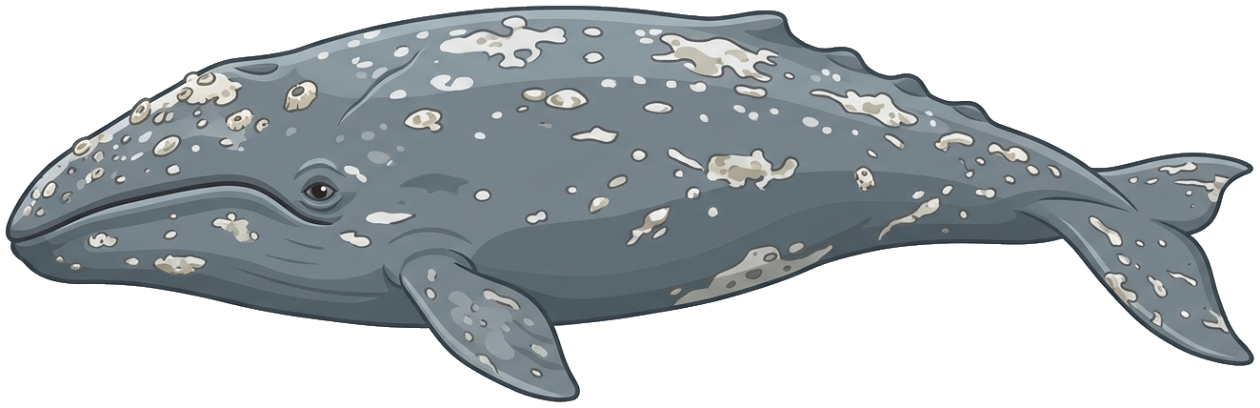
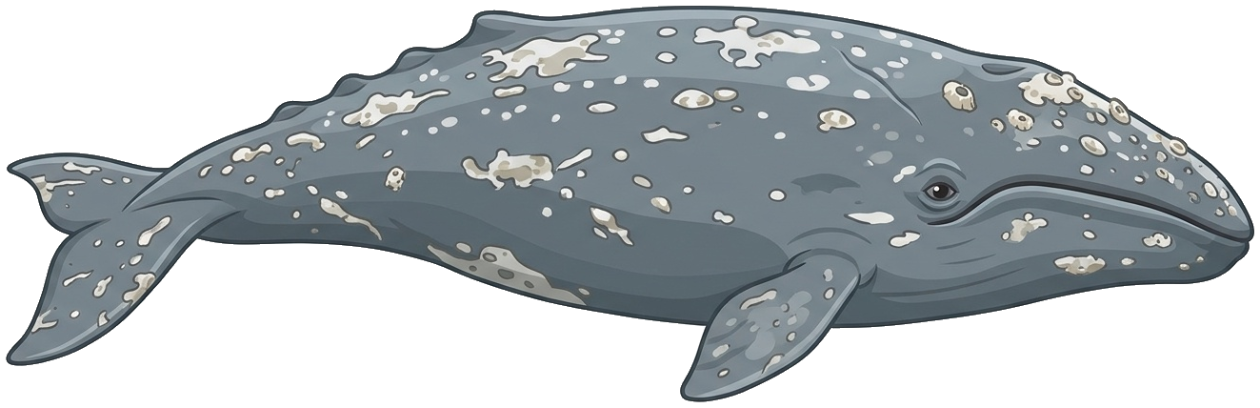
refactor: prune non-fish mammals from prey database
Remove 6 non-fish mammal species (manatees, dugongs, walruses, sea lions) from the prey pool to refine biological consistency, updating related documentation and game configuration (140 to 134 entities).

diff --git a/src/game/rules.test.ts b/src/game/rules.test.ts
@@ -63,9 +63,9 @@ test('I18N dictionary has complete and matching keys in both zh and en', () => {
   );
 });
 
-test('GAME_CONFIG has 15 organs across 3 factions and 5 slots, plus 141 target prey & hazard entries (140 new species + cyber_mine)', () => {
+test('GAME_CONFIG has 15 organs across 3 factions and 5 slots, plus 135 target prey & hazard entries (134 active marine species + cyber_mine)', () => {
   assert.equal(GAME_CONFIG.organs.length, 15);
-  assert.equal(GAME_CONFIG.preyTiers.length, 141);
+  assert.equal(GAME_CONFIG.preyTiers.length, 135);
 
   const factions = new Set(GAME_CONFIG.organs.map((o) => o.faction));
   const slots = new Set(GAME_CONFIG.organs.map((o) => o.slot));
@@ -3243,14 +3243,20 @@ test('Undulating Mountain Range Seabed (Zero Flat or Diagonal Straight Lines), U
   }
 });
 
-test('140 New Marine Prey Species + Cyber Mine: Complete Asset Presence, Depth Stratification & Body-Size Deep Trend', () => {
-  assert.equal(PREY_140_RECORDS.length, 140);
-  assert.equal(GAME_CONFIG.preyTiers.length, 141);
+test('134 Active Marine Prey Species + Cyber Mine: Non-Fish Mammal Exclusion, Asset Presence, Depth Stratification & Body-Size Deep Trend', () => {
+  assert.equal(PREY_140_RECORDS.length, 134);
+  assert.equal(GAME_CONFIG.preyTiers.length, 135);
 
   const byId = Object.fromEntries(GAME_CONFIG.preyTiers.map((p) => [p.id, p]));
   assert.ok(byId['cyber_mine'], 'cyber_mine must remain retained');
+  assert.ok(byId['PREY-203'], 'PREY-203 Gray Whale must remain active');
 
-  // 1. Verify every PREY-001..PREY-210 has a valid transparent @3x.png file on disk
+  // Verify pinnipeds/sirenians (manatee, dugong, walrus, sea lions) are excluded from spawning
+  for (const excludedId of ['PREY-122', 'PREY-123', 'PREY-124', 'PREY-125', 'PREY-126', 'PREY-209']) {
+    assert.equal(byId[excludedId], undefined, `${excludedId} must be excluded from active preyTiers`);
+  }
+
+  // 1. Verify every active prey record has a valid transparent @3x.png file on disk
   for (const rec of PREY_140_RECORDS) {
     const cfg = byId[rec.id];
     assert.ok(cfg, `Missing PreyTierConfig for ${rec.id}`);

diff --git a/src/game/preyDatabase140.ts b/src/game/preyDatabase140.ts
@@ -149,11 +149,6 @@ const RAW_PREY_140_TUPLES: RawPreyTuple[] = [
   ['PREY-119', '大型海鲹', 'Giant Trevally', '大型海洋生物', 0, 200, 100, 170, 'L'],
   ['PREY-120', '宽吻海豚', 'Bottlenose Dolphin', '大型海洋生物', 0, 300, 250, 400, 'XL'],
   ['PREY-121', '长吻海豚', 'Spinner Dolphin', '大型海洋生物', 0, 300, 200, 300, 'L'],
-  ['PREY-122', '海牛', 'West Indian Manatee', '大型海洋生物', 0, 30, 250, 400, 'XL'],
-  ['PREY-123', '儒艮', 'Dugong', '大型海洋生物', 0, 30, 250, 300, 'XL'],
-  ['PREY-124', '海象', 'Walrus', '大型海洋生物', 0, 100, 300, 400, 'XXL'],
-  ['PREY-125', '北海狮', 'Steller Sea Lion', '大型海洋生物', 0, 300, 250, 350, 'XL'],
-  ['PREY-126', '南美海狮', 'South American Sea Lion', '大型海洋生物', 0, 300, 200, 300, 'L'],
   ['PREY-127', '大西洋鲟', 'Atlantic Sturgeon', '大型海洋生物', 0, 200, 150, 300, 'XL'],
   ['PREY-128', '白鲟', 'Beluga Sturgeon', '大型海洋生物', 0, 100, 200, 400, 'XXL'],
   ['PREY-129', '巨型梭鱼', 'Great Barracuda', '大型海洋生物', 0, 100, 100, 200, 'XL'],
@@ -166,7 +161,6 @@ const RAW_PREY_140_TUPLES: RawPreyTuple[] = [
   ['PREY-206', '虎鲸', 'Orca', '巨型海洋生物', 0, 300, 500, 800, '巨型'],
   ['PREY-207', '伪虎鲸', 'False Killer Whale', '巨型海洋生物', 0, 1000, 400, 600, 'XXL'],
   ['PREY-208', '领航鲸', 'Pilot Whale', '巨型海洋生物', 0, 1000, 400, 600, 'XXL'],
-  ['PREY-209', '北极海象', 'Arctic Walrus', '巨型海洋生物', 0, 100, 300, 400, 'XXL'],
   ['PREY-210', '蓝鲸幼体/亚成体', 'Juvenile Blue Whale', '巨型海洋生物', 0, 200, 800, 1500, '巨型'],
 ];
 
@@ -253,12 +247,6 @@ export const PREY_140_RIGID_IDS = new Set<string>([
   'PREY-114',
   'PREY-115',
   'PREY-116',
-  'PREY-122',
-  'PREY-123',
-  'PREY-124',
-  'PREY-125',
-  'PREY-126',
-  'PREY-209',
 ]);
 
 export const PREY_140_PUFFER_IDS = PUFFER_LIKE_IDS;

diff --git a/scripts/build-ios-native.ts b/scripts/build-ios-native.ts
@@ -3,6 +3,7 @@ import path from 'node:path';
 import child_process from 'node:child_process';
 import { fileURLToPath } from 'node:url';
 import { GAME_CONFIG } from '../src/game/config';
+import { PREY_140_RECORD_BY_ID } from '../src/game/preyDatabase140';
 import { SHARK_EVOLUTION_FORMS, LINEAGE_META } from '../src/game/sharkEvolutionConfig';
 import {
   SHARK_CELL_BOUNDS,
@@ -6236,8 +6237,7 @@ public final class OceanGameScene: SKScene {
         "PREY-099", "PREY-103"
     ]
     private static let prey140RigidIds: Set<String> = [
-        "PREY-114", "PREY-115", "PREY-116",
-        "PREY-122", "PREY-123", "PREY-124", "PREY-125", "PREY-126", "PREY-209"
+        "PREY-114", "PREY-115", "PREY-116"
     ]
 
     private func classifyPreySwimGait(_ p: PreyTierConfig) -> PreySwimGait {
@@ -11977,6 +11977,8 @@ function main() {
   if (fs.existsSync(srcPrey140Dir)) {
     for (const file of fs.readdirSync(srcPrey140Dir)) {
       if (file.endsWith('@3x.png')) {
+        const preyId = file.replace(/@3x\.png$/, '');
+        if (!PREY_140_RECORD_BY_ID[preyId]) continue;
         fs.copyFileSync(
           path.join(srcPrey140Dir, file),
           path.join(assetsDst, file)

diff --git a/ios-native/HungrySharkEvolution/Rendering/OceanGameScene.swift b/ios-native/HungrySharkEvolution/Rendering/OceanGameScene.swift
@@ -1463,8 +1463,7 @@ public final class OceanGameScene: SKScene {
         "PREY-099", "PREY-103"
     ]
     private static let prey140RigidIds: Set<String> = [
-        "PREY-114", "PREY-115", "PREY-116",
-        "PREY-122", "PREY-123", "PREY-124", "PREY-125", "PREY-126", "PREY-209"
+        "PREY-114", "PREY-115", "PREY-116"
     ]
 
     private func classifyPreySwimGait(_ p: PreyTierConfig) -> PreySwimGait {

diff --git a/docs/01-ARCHITECTURE.md b/docs/01-ARCHITECTURE.md
@@ -1,7 +1,7 @@
 # 01. 项目系统架构与模块说明书 (System Architecture)
 
 > **文档状态**：生效中（Active）
-> **最后更新**：2026-11-15
+> **最后更新**：2026-11-16
 > **关联约束**：修改任何模块划分、文件职责、主循环状态或存档 Schema 时，必须同步更新本文档（参见 [`docs/00-AI_CONSTRAINTS.md`](./00-AI_CONSTRAINTS.md)）。
 
 ---
@@ -63,13 +63,13 @@
     │   ├── UiAtlasIcon.tsx                    # UI 图集渲染组件（UiAtlasIcon / UiAvatarDataBar / UiBannerButton / UiSettingModalFrame / UiSettingSharkCard / UiSettingButton）
     │   └── SharkEvolutionAtlasModal.tsx       # 48 阶鲨鱼图谱弹窗（支持血统筛选、本体升级与新形态解锁）
     └── game/
-        ├── preyDatabase140.ts                 # 140 种新海洋生物元数据、双语词典、游泳步态分类集合与真实水深+体型深海映射生成器（+ cyber_mine 共 141 项）
-        ├── config.ts                          # 静态世界常量、3 大深度带、接入 buildPrey140TiersWithMines() 的 141 项生态配置
+        ├── preyDatabase140.ts                 # 134 种现役海洋生物元数据（已剔除海牛/儒艮/海象/海狮等 6 种非鱼形态哺乳类）、双语词典、游泳步态分类集合与真实水深+体型深海映射生成器（+ cyber_mine 共 135 项）
+        ├── config.ts                          # 静态世界常量、3 大深度带、接入 buildPrey140TiersWithMines() 的 135 项生态配置
         ├── sharkEvolutionConfig.ts            # 48 阶鲨鱼进化矩阵、四重血统、三重解锁门禁、跨局存档读写
         ├── rules.ts                           # 纯函数核心规则（Lv/T 属性合成、猎物相对体型缩放、碰撞判定）
         ├── rules.test.ts                      # 核心纯函数单元测试套件（41 项核心断言）
-        ├── spriteSheetManager.ts              # 8×6 鲨鱼精灵图 + 140 种猎物 @3x 独立 PNG 按需/分批裁剪缓存 + UI 图集加载与离屏缓存
-        ├── canvasRenderer.ts                  # 鲨鱼多段脊柱游动渲染、140 种猎物五步态骨骼渲染、状态指示环与定制图标头标
+        ├── spriteSheetManager.ts              # 8×6 鲨鱼精灵图 + 猎物 @3x 独立 PNG 按需/分批裁剪缓存 + UI 图集加载与离屏缓存
+        ├── canvasRenderer.ts                  # 鲨鱼多段脊柱游动渲染、134 种现役猎物五步态骨骼渲染、状态指示环与定制图标头标
         ├── parallaxBackground.ts              # 13 张 AI 分层美术背景离屏 BFS 抠图/余弦无缝拼接与五层真视差海洋环境引擎
         ├── worldGenerationSystem.ts           # 八模块程序化海底世界生成系统（WorldGenerator / BiomeManager / TerrainGenerator / StructureGenerator / EcologyGenerator / ChunkManager / DecorationRenderer / WorldStateManager）
         ├── infiniteWorldManager.ts            # 无限水平环形世界与动态深海垂直下潜边界控制器
@@ -150,6 +150,7 @@
 
 | 日期 | 变更摘要 | 关联代码文件 |
 | :--- | :--- | :--- |
+| 2026-11-16 | **剔除海狮/海象/海牛/儒艮等非鱼形态哺乳类并修正 `PREY-203` 灰鲸朝向与游动方向**：① 从 `RAW_PREY_140_TUPLES`、`PREY_140_RIGID_IDS` 及 iOS 打包资源过滤中移除 `PREY-122` 海牛、`PREY-123` 儒艮、`PREY-124` 海象、`PREY-125` 北海狮、`PREY-126` 南美海狮与 `PREY-209` 北极海象（保留海龟与鲸豚，现役生态配置调整为 **134 种海洋生物 + `cyber_mine` = 135 项**）；② 水平镜像 `src/assets/images/prey_203_graywhale_1794661665632.jpg` 并重切 `PREY-203.png` / `PREY-203@3x.png`，使灰鲸严格面朝右侧、尾鳍朝左，与 Web/iOS 脊柱正弦摆尾方向（`u=0` 头部稳态、`u=1` 尾部推进）完全一致 | `src/game/preyDatabase140.ts`, `src/assets/images/prey_203_graywhale_1794661665632.jpg`, `public/assets/prey_140/PREY-203@3x.png`, `scripts/build-ios-native.ts`, `src/game/rules.test.ts` |
 | 2026-11-15 | **新增 `src/game/preyDatabase140.ts` 并将双端生态体系切换为 140 种新猎物（`PREY-001..210`）+ `cyber_mine`**：① 建立 `PREY_140_RECORDS` 与 `buildPrey140TiersWithMines()` 替换 `config.ts` 旧 33 项配置并同步 `i18n.ts`；② `spriteSheetManager.ts` 增加 `prey140Frames` 分批/按需透明 `@3x.png` 加载器（限宽 420px + 紧凑非透明裁切）；③ `canvasRenderer.ts` 与 `ecosystemSpawner.ts` / `App.tsx` 全面切换至 140 种生物步态（新增 `SHARK_APEX`）、`0~20000m` 五段阶位权重与 `<=515m` 浅海伴游深度钳制；④ 同步 `scripts/build-ios-native.ts` 并通过 41/41 单元测试 | `src/game/preyDatabase140.ts`, `src/game/config.ts`, `src/game/i18n.ts`, `src/game/spriteSheetManager.ts`, `src/game/canvasRenderer.ts`, `src/game/ecosystemSpawner.ts`, `src/App.tsx`, `scripts/build-ios-native.ts`, `src/game/rules.test.ts` |
 | 2026-11-14 | **消除沿洞口向下斜线水平移动时的速度叠加（`evalTerraceSeabedContinuousRaw` / `resolveSeabedKineticStep` / `App.tsx` / `scripts/build-ios-native.ts`）**：① **补齐洞口下弯斜壁解析导数 `dWallDropTDx`**：在 `evalTerraceSeabedContinuousRaw` 中将洞口两侧下弯过渡 `wallDropT` 升级为 $C^2$ 五次平滑曲线（`wallRampSpan = 165m`）并精确计算解析导数 `(targetDeepArchY - lipArchY) * dWallDropTDx` 计入 `bottomSlope`（限幅 `[-2.6, 2.6]`），使水平移动撞击洞口向下斜壁时的切向缩放系数 `bTangentScale = 1 / sqrt(1 + bSlope^2)` 与真实斜率严格一致；② **二分二维弧长守恒与零垂直速度注入**：在 `resolveSeabedKineticStep` 中对洞顶斜壁与表层斜坡执行 6 次二分弧长守恒收缩（确保 `effectiveSpeed2D <= intendedSpeed`），并移除向下一帧注入 `(finalY - prevEngineY) / dt` 垂直速度的逻辑，同时在 `src/App.tsx` 与 iOS `GameRules.swift` 中钳制二维合速度模长 $\sqrt{v_x^2 + v_y^2} \le \text{targetSpeed}$，彻底根治跨帧水平速度 `vx` 与斜坡残留 `vy` 勾股叠加超速问题 | `src/game/worldGenerationSystem.ts`, `src/App.tsx`, `scripts/build-ios-native.ts`, `src/game/rules.test.ts`, `docs/01-ARCHITECTURE.md`, `docs/02-DESIGN_SPEC.md`, `docs/05-CROSS_PLATFORM_MOBILE_PORTING_GUIDE.md` |
 | 2026-11-14 | **扩展为全深度 9 级随深度递增的非均匀间距连续阶梯海床架构（`SEABED_TERRACE_TIERS` / `getSeabedTerraceAt`）+ 层间交错弧形下潜洞口 + 全层级双向防穿透碰撞与生态附着（覆盖 `414m` 浅海至 `16900m` 冥渊海沟）**：① **9 级随深度递增的非均匀间距连续海床矩阵**：按浅海连续海床的同等实现范式，从阳光浅海一路向深渊铺设 9 层间距随深度递增的阶梯海床——`Tier 0` 阳光浅海珊瑚层（`~414m`）$\xrightarrow{+806\text{m}}$ `Tier 1` 上暮光层礁石阶地（`~1220m`）$\xrightarrow{+1000\text{m}}$ `Tier 2` 中暮光层海谷台地（`~2220m`）$\xrightarrow{+1240\text{m}}$ `Tier 3` 深暮光半深海峡谷（`~3460m`）$\xrightarrow{+1580\text{m}}$ `Tier 4` 半深海裂谷前哨阶地（`~5040m`）$\xrightarrow{+2020\text{m}}$ `Tier 5` 深海玄武岩断崖（`~7060m`）$\xrightarrow{+2580\text{m}}$ `Tier 6` 深渊幽冥海盆阶地（`~9640m`）$\xrightarrow{+3260\text{m}}$ `Tier 7` 超深渊黑曜石裂谷（`~12900m`）$\xrightarrow{+4000\text{m}}$ `Tier 8` 冥渊海沟热液前哨（`~16900m`），不仅层间垂直间距（`806m -> 4000m`）与净空走廊高度（`394m -> 3268m`）随深度严格递增，水平周期（`1600m -> 3600m`）与下潜洞口宽度（`464m -> 832m`）亦随深海巨型进化鲨鱼体型同步放大；② **上下层交错下潜洞口与主海山无痕嫁接**：各层均采用无悬空立柱、连续海床后壁 + 向远处弯曲的弧形下潜洞口 + 三阶地下沉积岩层（含 `coral_reef`、`rocky_shelf`、`underwater_canyon` 与 `deep_abyss` 黑曜熔岩材质）设计，并通过 `seamPhaseOffsetX` 将相邻层的下潜洞口水平错开，且各层与主海床大陆坡交汇处执行 $C^2$ 平滑嫁接并隐去山根内部表层线；③ **全层级双向物理碰撞与底栖生态扩展**：`resolveSeabedCollision` 与 `resolveSeabedKineticStep` 遍历全部 9 层阶梯海床，支持各层顶面承托、底部拱形洞顶防向上穿透阻挡（`hitAtollUnderside = true`）以及层间水平走廊 100% 畅通巡游；`getShallowCoralAtollOutcropsForChunk` 与 `WorldRenderer.renderActiveChunkEntities` 同步扩展至 `240m~18000m`，在全部浅/中/深渊海床顶面附着生成底栖群落 | `src/game/worldGenerationSystem.ts`, `src/game/rules.test.ts`, `docs/01-ARCHITECTURE.md`, `docs/02-DESIGN_SPEC.md` |

diff --git a/docs/03-GAME_BALANCE_AND_NUMERICAL_DESIGN.md b/docs/03-GAME_BALANCE_AND_NUMERICAL_DESIGN.md
@@ -1,7 +1,7 @@
 # 03. 核心数值策划与系统公式圣经 (Game Balance & Numerical Design)
 
 > **文档状态**：生效中（Active）
-> **最后更新**：2026-11-15
+> **最后更新**：2026-11-16
 > **关联约束**：修改 `src/game/rules.ts`、`src/game/sharkEvolutionConfig.ts`、`src/game/config.ts`、`src/game/preyDatabase140.ts` 或 `src/game/infiniteProgressionManager.ts` 中的任何数值参数或公式时，**必须在同一次提交中更新本文档对应的章节与表格**（参见 [`docs/00-AI_CONSTRAINTS.md`](./00-AI_CONSTRAINTS.md)）。
 
 ---
@@ -52,7 +52,7 @@
 
 ## 2. 咬合阶位（`T1 ~ T8`）计算规则与克制法则
 
-`T`（Bite Tier，咬合阶位，显示为琥珀色徽章 `T1 ~ T8`）是决定**食物链吞噬关系**的核心指标。海洋中全部 140 种生物（外加 1 种深海水雷 `cyber_mine`，共计 141 项生态配置）划分为 `T1` 至 `T8` 共 8 个生态位阶。
+`T`（Bite Tier，咬合阶位，显示为琥珀色徽章 `T1 ~ T8`）是决定**食物链吞噬关系**的核心指标。海洋中全部 134 种现役海洋生物（已剔除海狮/海象/海牛/儒艮等 6 种非鱼形态哺乳类，外加 1 种深海水雷 `cyber_mine`，共计 135 项生态配置）划分为 `T1` 至 `T8` 共 8 个生态位阶。
 
 ### 2.1 鲨鱼当前咬合阶位 `T` 的完整合成公式
 位于 `src/game/rules.ts` ➔ `computeEvolvedSharkStats()`：
@@ -192,7 +192,7 @@ $$T_{\text{shark}} = \begin{cases} 8, & \text{若处于黄金狂暴状态 (Frenz
 
 ### 5.1 金币 `🪙` 与基因 `🧬` 的获取/消耗平衡（~4:1 产出比）
 - **金币 `🪙`（高频养成与战术货币）**：
-  - **获取**：全部 141 项猎物与障碍配置（140 种海洋生物 + `cyber_mine`）的 `coinValue` 与 `geneValue` 按约 **4:1 ~ 4.5:1** 黄金比例配置；普通猎物死亡爆出的拾取球中 **75% 为金币球 `COIN`**、25% 为基因结晶；此外包含黄金变异鱼 `3.0x` 金币倍率与悬赏目标鱼丰厚金币奖励。
+  - **获取**：全部 135 项现役猎物与障碍配置（134 种海洋生物 + `cyber_mine`）的 `coinValue` 与 `geneValue` 按约 **4:1 ~ 4.5:1** 黄金比例配置；普通猎物死亡爆出的拾取球中 **75% 为金币球 `COIN`**、25% 为基因结晶；此外包含黄金变异鱼 `3.0x` 金币倍率与悬赏目标鱼丰厚金币奖励。
   - **消耗**：① 强化当前鲨鱼躯体等级（`Lv.1 -> Lv.10`）；② 破茧进化解锁新鲨鱼形态；③ 局内释放 `🪙 黄金狂暴` 战术爆发技能。
 - **基因碎片 `🧬`（高价值突破与质变货币）**：
   - **获取**：浅海普通小鱼仅少量产出基因（`geneValue = 1~2`），高浓度基因产出来自：**🎯 悬赏目标鱼**（完成悬赏奖励 `18 + 4 * tier` 基因及必掉额外基因结晶）、**深渊巨兽变异体 (`ABYSS_BEHEMOTH`, `2.5x` 基因)** 与 **`T4+` 深海大型猎物**。
@@ -218,10 +218,10 @@ $$T_{\text{shark}} = \begin{cases} 8, & \text{若处于黄金狂暴状态 (Frenz
 
 ---
 
-## 6. 海洋深度生态分布规则（140 种真实水深生物 + `cyber_mine`，`0m ~ 20000m` 体大优先深海分层）
+## 6. 海洋深度生态分布规则（134 种现役真实水深生物 + `cyber_mine`，`0m ~ 20000m` 体大优先深海分层）
 
 ### 6.1 双因子映射算法 (`computeMappedPrey140Config` in `src/game/preyDatabase140.ts`) 与五大深海生态带
-游戏生态库 `GAME_CONFIG.preyTiers` 由 `buildPrey140TiersWithMines()` 生成，包含 `docs/06-PREY_DATABASE_140.md` 中的 **140 种真实海洋生物（`PREY-001 ~ PREY-100` 普通鱼、`PREY-101 ~ PREY-130` 大型海洋生物、`PREY-201 ~ PREY-210` 巨型海洋生物）** 与 **1 种保留的爆破障碍（`cyber_mine`：`T6`，`560m ~ 20000m`）**，总计 **141 项**（旧版 32 种混合生物、潜艇、辐射粘液及海底遗物全部移除）。
+游戏生态库 `GAME_CONFIG.preyTiers` 由 `buildPrey140TiersWithMines()` 生成，包含 `docs/06-PREY_DATABASE_140.md` 中的 **134 种现役海洋生物（`PREY-001 ~ PREY-100` 普通鱼、`PREY-101 ~ PREY-130` 与 `PREY-201 ~ PREY-210` 大/巨型鱼类与鲸豚，已剔除 `PREY-122..126, 209` 海狮/海象/海牛/儒艮）** 与 **1 种保留的爆破障碍（`cyber_mine`：`T6`，`560m ~ 20000m`）**，总计 **135 项**（旧版 32 种混合生物、潜艇、辐射粘液及海底遗物全部移除）。
 
 由于现实鱼类真实水深多集中在 `0~300m`、最深 `2000m`，而游戏世界深度为 `0m ~ 20000m`，系统采用 **「真实生存水深对数分位数 `depthFactor` + 尺寸级别 `sizeClass` 深海偏移」** 双因子纯函数映射到 5 大深度区间：
 - **对数水深基准**：$\text{depthFactor} = \min\big(1,\; \ln(1 + \text{realMaxDepth}) / \ln(1 + 1200)\big)$。
@@ -276,6 +276,7 @@ $$T_{\text{shark}} = \begin{cases} 8, & \text{若处于黄金狂暴状态 (Frenz
 
 | 日期 | 变更摘要 | 关联代码文件 |
 | :--- | :--- | :--- |
+| 2026-11-16 | **剔除 6 种非鱼形态海洋哺乳类（海狮/海象/海牛/儒艮）并修正 `PREY-203` 灰鲸方向**：从 `preyDatabase140.ts` 中移除 `PREY-122` 海牛、`PREY-123` 儒艮、`PREY-124` 海象、`PREY-125` 北海狮、`PREY-126` 南美海狮、`PREY-209` 北极海象（现役调整为 134 种海洋生物 + `cyber_mine` = 135 项），并更新 `rules.test.ts` 校验与 `PREY-203` 右朝向贴图 | `src/game/preyDatabase140.ts`, `src/game/rules.test.ts`, `scripts/build-ios-native.ts`, `docs/03-GAME_BALANCE_AND_NUMERICAL_DESIGN.md` |
 | 2026-11-15 | **全平台（Web + iOS 原生）猎物体系全面替换为 140 种新海洋生物（`PREY-001 ~ PREY-210`）+ 保留深海水雷 `cyber_mine`（共 141 项），按真实水深 + 体型加权分层铺满 `0m ~ 20000m`**：① 新增 `src/game/preyDatabase140.ts` 收录 140 种生物元数据、中英双语字典与 `computeMappedPrey140Config` 双因子映射公式（按 `realMinDepth/realMaxDepth` 与 `XS -> 巨型` 尺寸级别优先向深海偏移，同时为 `realMinDepth >= 50m` 的深海发光小鱼保留直达 `20000m` 的基础补给链）；② 替换 `GAME_CONFIG.preyTiers`、更新 `ecosystemSpawner.ts`（含 `shallowMateCap = 515m` 伴游钳制与五段 `0~20000m` 阶位权重）、`App.tsx` 开局迎宾鱼群及 `i18n.ts`；③ 升级 `spriteSheetManager.ts` 与 `canvasRenderer.ts`（分批/按需加载 `@3x.png` 透明资产并执行 420px 限宽与紧致透明边界裁切，新增 `SHARK_APEX` 步态）；④ 同步更新 `scripts/build-ios-native.ts`（唯一 `spriteKey`、`@3x` 打包、五步态分类与深海分层刷新）与 `rules.test.ts`（41/41 通过） | `src/game/preyDatabase140.ts`, `src/game/config.ts`, `src/game/i18n.ts`, `src/game/spriteSheetManager.ts`, `src/game/canvasRenderer.ts`, `src/game/ecosystemSpawner.ts`, `src/App.tsx`, `src/game/rules.test.ts`, `scripts/build-ios-native.ts`, `docs/03-GAME_BALANCE_AND_NUMERICAL_DESIGN.md`, `docs/06-PREY_DATABASE_140.md` |
 | 2026-11-15 | **修复 9 层阶梯海床洞口悬崖与大陆坡嫁接山根（~633m）穿墙穿模 Bug（Web + iOS 原生双端同步）**：① 将 `getSeabedTerraceAt` 实体碰撞激活由 `graftedEdgeWeight > 0.02` 改为 `graftT > 0.03`，彻底清除洞口唇边 `0~22m` 碰撞盲区；② 在 `resolveSeabedCollision` 中识别无洞下走廊的实心嫁接山根楔块（`floorEngineY - bottomArchY <= radius * 1.25`），防止误判 `hitAtollUnderside` 反向压入地下；③ 在 `resolveSeabedKineticStep` 中新增 `hitsTerraceVerticalWallHorizontally` 二维水平悬崖阻挡（含 6 次二分精定位与狭窄山根楔形区防挤入） | `src/game/worldGenerationSystem.ts`, `scripts/build-ios-native.ts`, `src/game/rules.test.ts`, `docs/03-GAME_BALANCE_AND_NUMERICAL_DESIGN.md`, `docs/05-CROSS_PLATFORM_MOBILE_PORTING_GUIDE.md` |
 | 2026-11-12 | **世界海洋深度上限扩展至 `20000m`（`1m = 1 worldPx`）并补齐 `T3 ~ T6` 超深海原生鱼种覆盖（`maxDepth: 99999`）**：将 `WorldConfig.bounds.maxDepth` 统一为 `20000m`（海床深度范围 `[420m, 19800m]`），并将 `cyber_mine`（`T3`）、`glowing_lanternfish`（`T3`）、`giant_humboldt_squid`（`T4`）、`trench_blobfish`（`T5`）、`radioactive_slime_hazard`（`T6`）的栖息深度上限设为 `99999`，与原本即为 `maxDepth: 99999` 的 `T7 ~ T8` 深渊巨兽共同构成直达 `20000m` 海沟底部的完整食物链 | `src/game/config.ts`, `src/game/worldGenerationSystem.ts`, `src/game/rules.test.ts`, `docs/03-GAME_BALANCE_AND_NUMERICAL_DESIGN.md` |

diff --git a/docs/05-CROSS_PLATFORM_MOBILE_PORTING_GUIDE.md b/docs/05-CROSS_PLATFORM_MOBILE_PORTING_GUIDE.md
@@ -1,7 +1,7 @@
 # 05. 移动端与跨平台原生移植避坑指南 (Cross-Platform Mobile Porting & Pitfalls Guide)
 
 > **文档状态**：生效中（Active）
-> **最后更新**：2026-11-15
+> **最后更新**：2026-11-16
 > **适用范围**：将本项目（Web Canvas 2D + React 基準实现）移植/打包至 **纯原生 iOS (SwiftUI + SpriteKit Metal)**、**纯原生 Android (Jetpack Compose + OpenGL/Canvas)**、**鸿蒙 HarmonyOS NEXT (ArkUI + XComponent)**、**微信小游戏 / 抖音小游戏** 或 **Unity / Cocos / Flutter** 等其他平台时的强制工程核查清单。
 
 ---
@@ -96,7 +96,7 @@
    - **效果**：手指点击桌面图标的 `0ms` 瞬间即呈现 `#061528` 深海幽蓝底色与品牌剪影，彻底消除黑屏或白屏闪烁。
 2. **第二层：后台异步纹理解码与 `StartupLoadingView` 60/120fps 动态加载层（消除 0.3s ~ 3.0s 主线程冻结）**：
    - **主线程零阻塞**：`OceanGameScene.didMove(to:)` 严禁同步调用耗时纹理解码，改为调用 `SpriteAtlasManager.shared.startAsyncPreloadIfNeeded()`，并在首帧仅通过 `loadSingleSharkOnDemand` 按需秒级加载当前选中的 1 条主角鲨鱼。
-   - **后台分阶段异步预热**：在 `Task.detached(priority: .userInitiated)` 后台高优线程中依次完成：① UI 金属按钮/横幅与 9-Slice 结算框裁切（`0% -> 18%`）→ ② 48 阶 `@3x` 鲨鱼高清纹理加载（`18% -> 38%`）→ ③ 140 种 `@3x` 独立透明猎物 PNG（`PREY-001@3x .. PREY-210@3x`）与水雷加载（`38% -> 56%`）→ ④ 12 层深海视差背景去底与海床贴图加载（`56% -> 92%`）→ ⑤ `SKTexture.preload` 异步上传 Metal GPU（`92% -> 100%`），通过 `@MainActor` 实时驱动 `@Published loadingProgress`（`0.0 ~ 1.0`）。
+   - **后台分阶段异步预热**：在 `Task.detached(priority: .userInitiated)` 后台高优线程中依次完成：① UI 金属按钮/横幅与 9-Slice 结算框裁切（`0% -> 18%`）→ ② 48 阶 `@3x` 鲨鱼高清纹理加载（`18% -> 38%`）→ ③ 134 种现役 `@3x` 独立透明猎物 PNG（已剔除海牛/儒艮/海象/海狮 `PREY-122..126, 209`）与水雷加载（`38% -> 56%`）→ ④ 12 层深海视差背景去底与海床贴图加载（`56% -> 92%`）→ ⑤ `SKTexture.preload` 异步上传 Metal GPU（`92% -> 100%`），通过 `@MainActor` 实时驱动 `@Published loadingProgress`（`0.0 ~ 1.0`）。
    - **丝滑淡出交接**：当 `atlas.isReady == true` 时，自动回调 `scene.onAtlasPreloadCompleted()` 刷新场景纹理，同时 `StartupLoadingView` 执行 `0.45s` 平滑透明度淡出，无缝露出已发光就绪的首页标题界面。
 3. **方案 A：零代码改动的静态素材热替换约定（Hot-Replaceable Assets）**：
    - 资源目录（Web 源目录 `public/assets/aistudio/` 同步拷贝至 iOS `HungrySharkEvolution/Resources/Assets/`）固定约定以下 3 个标准文件名：
@@ -140,6 +140,7 @@
 
 | 日期 | 变更摘要 | 关联代码文件 |
 | :--- | :--- | :--- |
+| 2026-11-16 | **Web 与 iOS 双端剔除海狮/海象/海牛/儒艮并修复 `PREY-203` 灰鲸反转方向与摆尾波**：① 从 `preyDatabase140.ts` 与 iOS `prey140RigidIds` 移除 `PREY-122..126` 与 `PREY-209`，且 `build-ios-native.ts` 资源拷贝按 `PREY_140_RECORD_BY_ID` 严格过滤（iOS 仅打包 134 种现役猎物 `@3x.png`）；② 水平镜像 `src/assets/images/prey_203_graywhale_1794661665632.jpg` 并重生成 `PREY-203.png` / `PREY-203@3x.png`，使其与双端 `u=0/1` 头部刚性、尾部推进的脊柱摆动方向完全一致 | `src/game/preyDatabase140.ts`, `src/assets/images/prey_203_graywhale_1794661665632.jpg`, `public/assets/prey_140/PREY-203@3x.png`, `scripts/build-ios-native.ts`, `docs/05-CROSS_PLATFORM_MOBILE_PORTING_GUIDE.md` |
 | 2026-11-15 | **Web 与 iOS 原生双端同步完成 140 种新猎物（`PREY-001 ~ PREY-210`）+ 水雷 `cyber_mine`（共 141 项）全面替换**：① 修正 `scripts/build-ios-native.ts` 中 `generateSwiftConfigFile` 的 `spriteKey` 回退碰撞坑点（由共享 `"FISH2_CLOWNFISH"` 修正为唯一 `p.spriteKey ?? p.id`，`sheetName = "prey_140"`、`normalizedBounds = [0,0,1,1]`）；② `SpriteAtlasManager.swift` Stage 2 与 `loadSinglePreyOnDemand` 同步优先加载 `"\(prey.id)@3x"` 独立透明 PNG（仅拷贝 `public/assets/prey_140/*@3x.png` 避免非 `@3x` 冗余包体）；③ `OceanGameScene.swift` 同步五类生物步态（补齐 `.SHARK_APEX` 与 `prey140*Ids` 集合）、默认悬赏目标切换为 `"PREY-001"`，并按 `0m ~ 20000m` 五段阶位权重 + `<= 495m` 浅海钳制完成生态刷怪同步 | `scripts/build-ios-native.ts`, `ios-native/`, `src/game/preyDatabase140.ts`, `src/game/spriteSheetManager.ts`, `src/game/canvasRenderer.ts`, `src/game/ecosystemSpawner.ts`, `docs/03-GAME_BALANCE_AND_NUMERICAL_DESIGN.md`, `docs/05-CROSS_PLATFORM_MOBILE_PORTING_GUIDE.md` |
 | 2026-11-15 | **根除洞口边缘游动闪烁 & 633m 悬崖/山根楔形穿墙穿模 + 修复结算重开自动游动与轻微移动背景刷新**：① **彻底消除洞口边缘闪烁与悬崖垂直切边**：定位此前为修复轻微移动刷新而引入的 `clippedStartWX`（随 `cameraX` 滑动的 32m `solidRuns` 扫描网格）在遭遇 `isPresent` 22m 洞唇盲区时引发 `rsWX1` 与 `bandSpans`（`0.52/0.80` 阶跃渐隐）逐帧跳变的根本原因；改为全固定世界网格 `chunkStep = 240m / polyGridStep = 40m`（完全不随 `cameraX` 漂移）、取消 `bandSpans` 阶跃半透明切片、调整图层层级（实心内填 `z=3.42` 严格遮盖洞口暗影 `z=3.39`）、加宽 `2A` 后壁 `clampBowlBotY` 収拢过渡至 `42m`（大于网格列宽），并在大陆坡嫁接区（`mainY < graftFuseMainY`）按 `fuseU` 向上收拢 `visualBotY`，彻底消灭竖向切边与底部突出岩块；② **根除洞口悬崖与 633m 山根楔形穿墙（Web + iOS 双端同步）**：将 `getSeabedTerraceAt` 激活阈值由 `graftedEdgeWeight > 0.02`（含 22m 洞唇物理盲区）修正为 `graftT > 0.03`；在 `resolveSeabedCollision` 中识别无洞下水道的实心嫁接山根楔块（`mainFloorY - bottomArchY <= clearance * 1.25`），禁止错误触发 `hitAtollUnderside` 导致把鲨鱼按进山体；并在 `resolveSeabedKineticStep` 新增 `hitsTerraceVerticalWallHorizontally` 二维水平悬崖壁阻挡与二分寻址（`6` 次迭代），彻底杜绝从洞口横穿悬崖壁或从深侧水平/斜向挤穿山根；③ **双端输入状态全周期清零（根治死亡结算重开自动游动）**：iOS 新增 `runSequenceId`、`resetInputState()`、`resetSimulationForNewRun` 与 SwiftUI `@GestureState` 复位；Web 抽出 `clearAllInputs()`、起始速度归零并加装 `gameState === 'playing'` 输入护栏 | `scripts/build-ios-native.ts`, `ios-native/`, `src/game/worldGenerationSystem.ts`, `src/App.tsx`, `src/game/rules.test.ts`, `docs/03-GAME_BALANCE_AND_NUMERICAL_DESIGN.md`, `docs/05-CROSS_PLATFORM_MOBILE_PORTING_GUIDE.md` |
 | 2026-11-14 | **消除 Web 与 iOS 双端沿洞口向下斜线水平移动时的速度叠加（`GameRules.getSeabedTerraceAt` / `GameRules.resolveSeabedKineticStep`）**：在 Swift `getSeabedTerraceAt` 中补齐洞口下弯斜坡导数 `dRimDropDx`，并在 `resolveSeabedKineticStep` 子步循环中同步执行切向投影 `tangentScale = 1 / sqrt(1 + slope^2)` 与二维步长守恒钳制 `hypot(dx, dy) <= maxSubstepDist` | `scripts/build-ios-native.ts`, `src/game/worldGenerationSystem.ts`, `src/App.tsx`, `docs/05-CROSS_PLATFORM_MOBILE_PORTING_GUIDE.md` |

diff --git a/docs/02-DESIGN_SPEC.md b/docs/02-DESIGN_SPEC.md
@@ -1,7 +1,7 @@
 # 02. 渲染规范、UI/UX 与移动端多指交互设计规范 (Design & Interaction Spec)
 
 > **文档状态**：生效中（Active）
-> **最后更新**：2026-11-15
+> **最后更新**：2026-11-16
 > **关联约束**：凡修改鲨鱼/猎物渲染逻辑、HUD 布局、按钮事件绑定或移动端摇杆交互时，必须遵守并在变更后同步更新本文档（参见 [`docs/00-AI_CONSTRAINTS.md`](./00-AI_CONSTRAINTS.md)）。
 
 ---
@@ -47,12 +47,12 @@
 ### 2.2 渲染与物理碰撞统一数据源及 5 大海洋族群差异化游动步态
 - `drawPreyEntity()` 中的绘制缩放比例 `visualScale` 与 `App.tsx` 中 `resolvePreyEncounter()` 的碰撞半径缩放比例**必须调用同一个纯函数 `getPreyRelativeVisualScale(prey, shark.stats, prey.mutationVariant, frenzyActive)`**（内部固定使用 `normalBiteTier` 计算视觉尺寸）。
 - 严禁在 `canvasRenderer.ts` 中私自放大或缩小猎物尺寸而不经过 `getPreyRelativeVisualScale`；所有切片摆尾变形（`drawUndulatingSpriteFrame`）严格在 `drawW × drawH` 基准包围盒内部执行。
-- **五大生物族群差异化步态 (`getPreySwimGait` 适配 140 种新猎物 + `cyber_mine`)**：
+- **五大生物族群差异化步态 (`getPreySwimGait` 适配 134 种现役猎物 + `cyber_mine`)**：
   1. `CARANGIFORM`（小丑鱼、蓝吊、金枪鱼、灯笼鱼、海豚、巨鲸等标准流线型鱼类与鲸豚）：前部稳定 + 后 65% 躯干 S 波摆尾推进。
   2. `SHARK_APEX`（猫鲨、斑马鲨、护士鲨、礁鲨、锤头鲨、大白鲨、虎鲨、鲸鲨等 `PREY-089..098, 111..113`）：采用高幅有力的新月尾鳍推进包络。
   3. `ANGUILLIFORM`（蝰鱼、龙鱼、深海巨型梭鱼类 `PREY-079, 081, 083, 127..129`）：全身修长波段丝滑蜿蜒游走。
   4. `PUFFER_BUOYANT`（箱鲀、河豚、刺豚、牛角鱼、狮子鱼、躄鱼、翻车鱼 `PREY-050..054, 069..073, 099, 103`）：圆润躯体呼吸浮游 + 末端尾鳍高频小幅拨水。
-  5. `RIGID_PROPULSION`（海龟 `PREY-114..116`、海牛/儒艮/海象/海狮 `PREY-122..126, 209` 与保留水雷 `cyber_mine`）：保持刚性躯壳/金属外壳不发生橡胶弯曲，施加稳定鳍桨推进或机械微振。
+  5. `RIGID_PROPULSION`（海龟 `PREY-114..116` 与保留水雷 `cyber_mine`）：保持刚性躯壳/金属外壳不发生橡胶弯曲，施加稳定鳍桨推进或机械微振（海牛/儒艮/海象/海狮 `PREY-122..126, 209` 已于 2026-11-16 从现役池移除）。
 - **独立 `@3x` 透明 PNG 按需分批加载 (`spriteSheetManager.ts`)**：优先分批加载浅海珊瑚鱼 `/assets/prey_140/PREY-XXX@3x.png`（上限 `420px` 宽并紧致裁切透明边缘与碰撞箱对齐），`cyber_mine` 继续复用 `PREY_MINE` 精灵图。
 - **猎物情绪与速度耦合**：`prey.phase` 推进速率与猎物瞬时移速（`Math.hypot(vx, vy) / baseSpeed`）实时联动，受惊逃窜或冲锋扑咬时摆尾频率自动翻倍。
 
@@ -227,6 +227,7 @@
 
 | 日期 | 变更摘要 | 关联代码文件 |
 | :--- | :--- | :--- |
+| 2026-11-16 | **剔除海狮/海象/海牛/儒艮等非鱼形态哺乳类并修正 `PREY-203` 灰鲸朝向与游动方向**：① 从 `preyDatabase140.ts` 与 `build-ios-native.ts` 移除 `PREY-122..126` 与 `PREY-209`（保留海龟与鲸豚，现役调整为 134 种海洋生物 + `cyber_mine` = 135 项）；② 水平镜像 `src/assets/images/prey_203_graywhale_1794661665632.jpg` 并重生成 `PREY-203.png` / `PREY-203@3x.png`，使灰鲸面朝右侧、尾鳍朝左，确保渲染朝向与脊柱尾部波动方向在 Web/iOS 双端均完全正确 | `src/game/preyDatabase140.ts`, `src/assets/images/prey_203_graywhale_1794661665632.jpg`, `public/assets/prey_140/PREY-203@3x.png`, `scripts/build-ios-native.ts`, `docs/02-DESIGN_SPEC.md` |
 | 2026-11-15 | **接入 140 种新猎物 `@3x` 独立透明 PNG 渲染与五步态分类（Web + iOS 同步）**：① `spriteSheetManager.ts` 新增 `prey140Frames` 分批/按需预加载与非透明紧致裁切（`420px` 限宽），确保所有新猎物渲染框与 `getPreyRelativeVisualScale()` 碰撞半径 100% 对齐；② `canvasRenderer.ts` 与 `OceanGameScene.swift` 同步切换为 140 物种五步态（新增 `SHARK_APEX` 强尾鳍推进）；③ `App.tsx` 开局展示鱼群更换为 `PREY-001/003/015/002/044` 浅海珊瑚鱼组合 | `src/game/preyDatabase140.ts`, `src/game/spriteSheetManager.ts`, `src/game/canvasRenderer.ts`, `src/App.tsx`, `scripts/build-ios-native.ts`, `docs/02-DESIGN_SPEC.md` |
 | 2026-11-14 | **将旧版 4×4 卡通海床生态图集 `world_ecology_atlas_1794473252524.jpg` 重新生成为 4 张独立、不切图、写实风格、`2048×2048`（`@3x` Retina 216 DPI）高分辨率透明背景 PNG（`ecology_coral_reef_cluster.png`、`ecology_rocky_outcrop.png`、`ecology_kelp_forest_cluster.png`、`ecology_abyssal_vent_debris.png`）**：① 使用 Nano Banana 生成 4 张独立 `1:1` 写实风格海底生态群落原图（带天然礁石基座的复合鹿角珊瑚/脑珊瑚/柳珊瑚海扇/管状海绵群落、大陆架藤壶花岗岩与青脉玄武岩尖塔、植根礁石的巨藻气囊叶与绿松石海草丛、深渊黑烟囱熔岩喷口与红羽巨型管虫/发光海葵/锈蚀古铁锚），并通过 `scripts/build-ecology-sprites.ts`（`npm run build:ecology`）超分至 `2048×2048`（`@3x` 216 DPI）、执行四边连通域去白底、镂空海扇网格/海藻叶隙清理、热液烟羽半透明解混与 3 遍抗锯齿白边解混，同步输出至 `src/assets/images/` 与 `public/assets/aistudio/`；② 更新 `src/game/worldGenerationSystem.ts`（`WORLD_ECOLOGY_SPRITE_URLS`、`prepareStandaloneEcologySpriteCanvas`）与 `scripts/build-ios-native.ts`，直接加载 4 张独立 `@3x` 透明 PNG 而无需 4×4 网格切图 | `scripts/build-ecology-sprites.ts`, `src/assets/images/ecology_*.png`, `public/assets/aistudio/ecology_*.png`, `src/game/worldGenerationSystem.ts`, `scripts/build-ios-native.ts`, `docs/02-DESIGN_SPEC.md` |
 | 2026-11-14 | **消除沿洞口向下斜线水平移动时的速度叠加（`evalTerraceSeabedContinuousRaw` / `resolveSeabedKineticStep` / `App.tsx` / `scripts/build-ios-native.ts`）**：① 在 `evalTerraceSeabedContinuousRaw` 中补齐洞口两侧向下弯曲斜壁的解析导数 `(targetDeepArchY - lipArchY) * dWallDropTDx` 并计入 `bottomSlope`；② 在 `resolveSeabedKineticStep` 中采用 6 次二分弧长守恒收缩并移除向下一帧注入 `(finalY - prevEngineY) / dt` 垂直速度的逻辑，同时在 `App.tsx` 与 iOS `GameRules.swift` 中钳制二维合速度模长 $\le \text{targetSpeed}$，彻底解决沿洞口向下斜线水平移动时的速度叠加问题 | `src/game/worldGenerationSystem.ts`, `src/App.tsx`, `scripts/build-ios-native.ts`, `src/game/rules.test.ts`, `docs/02-DESIGN_SPEC.md`, `docs/01-ARCHITECTURE.md` |

diff --git a/docs/06-PREY_DATABASE_140.md b/docs/06-PREY_DATABASE_140.md
@@ -13,7 +13,7 @@
 | **已生成透明 PNG 数量** | **140 / 140**（完成率 `100.0%`） |
 | **当前已生成到（最后完成）** | **PREY-210（蓝鲸幼体/亚成体，1200×317 @3x）** |
 | **下次继续生成起点（断点续传）** | **🎉 全部 140 条已生成完毕** |
-| **双端游戏实装状态（2026-11-15）** | **✅ 已全量接入 Web + iOS 原生游戏逻辑**：`src/game/preyDatabase140.ts`（140 种 + 保留 `cyber_mine` = 141 项，真实水深 + 体型深海映射 `0m ~ 20,000m`）、`spriteSheetManager.ts` / `canvasRenderer.ts` / `ecosystemSpawner.ts` 与 `scripts/build-ios-native.ts`（41/41 单元测试通过） |
+| **双端游戏实装状态（2026-11-16）** | **✅ 已全量接入 Web + iOS 原生游戏逻辑**：`src/game/preyDatabase140.ts`（现役 **134 种**鱼类与鲸豚 + 保留 `cyber_mine` = **135 项**；已剔除海牛 `PREY-122`、儒艮 `PREY-123`、海象 `PREY-124`、北海狮 `PREY-125`、南美海狮 `PREY-126`、北极海象 `PREY-209` 等非鱼形态哺乳类，并水平镜像校正 `PREY-203` 灰鲸朝向与游动摆尾方向），同步 `spriteSheetManager.ts` / `canvasRenderer.ts` / `ecosystemSpawner.ts` 与 `scripts/build-ios-native.ts` |
 | **资产输出目录** | `/public/assets/prey_140/PREY-XXX.png`（原图去底） & `/public/assets/prey_140/PREY-XXX@3x.png`（iPhone `@3x` Retina 216 DPI） |
 | **进度 JSON 索引** | `/public/assets/prey_140/progress.json` |
 
